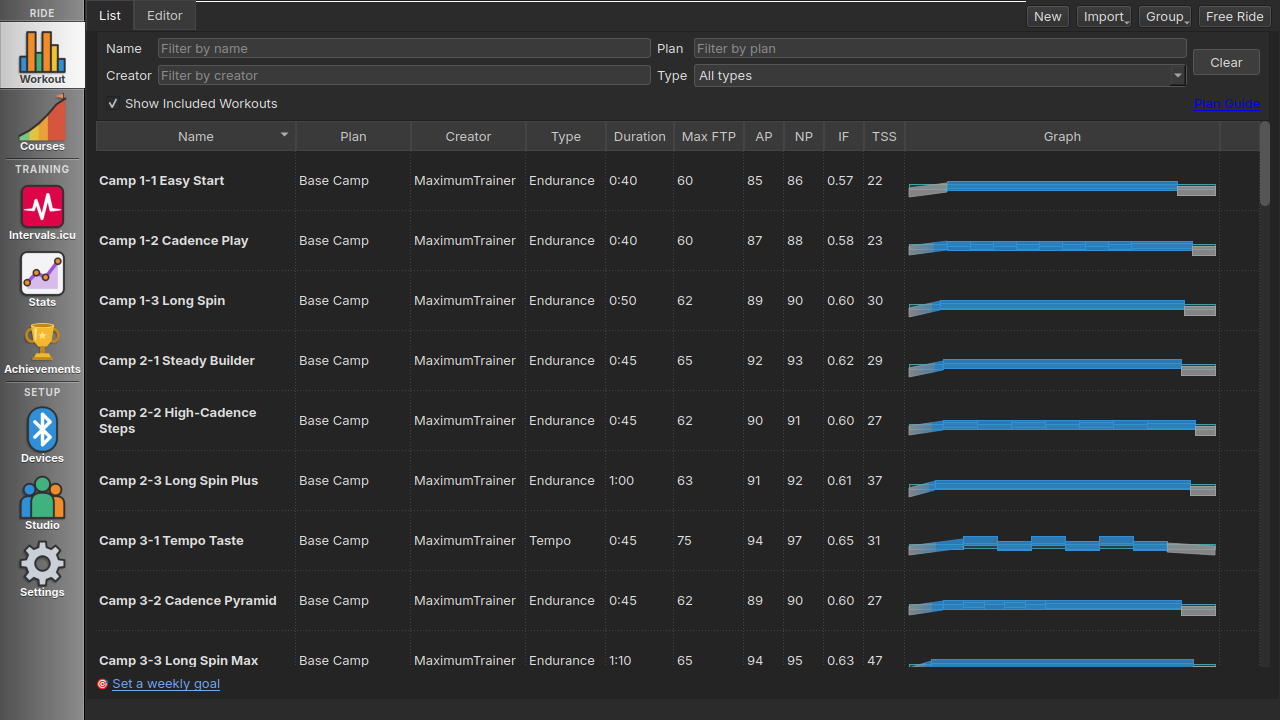
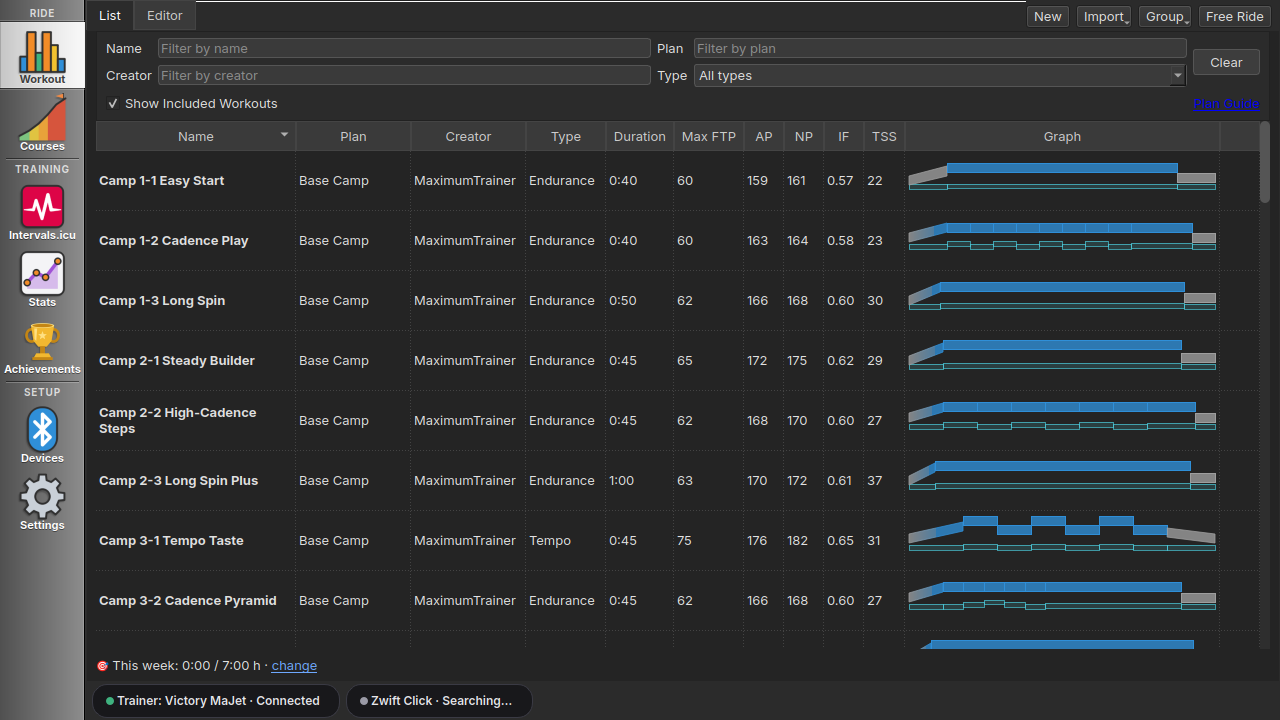
docs: refresh screenshots and docs for the current app
- Screenshots regenerated: no Studio tab in the sidebar, the Devices page
  with the 2nd power meter row, and the device bar at the bottom of the
  main window.
- Screenshot mode shows the device bar with the saved sensors (connected)
  and Zwift Click (searching), without touching Bluetooth.
- User Guide: the 2nd power meter is the orange line in the power card (no
  longer a top-bar readout).
- Landing page: Dual Recording feature card. README: the simulator also
  sends a 2nd power meter.

diff --git a/docs/user-guide.html b/docs/user-guide.html
@@ -600,8 +600,8 @@
           <li>For a smart trainer, tick <strong>Control trainer resistance (ERG / FTMS)</strong> in the Smart Trainer section to enable automatic ERG resistance.</li>
           <li>Optional: pair a <strong>2nd power meter</strong> to dual record. Each ride then also saves a second
               <code>.fit</code> file with that meter's power, named after it, in <code>History/Dual recording</code>
-              (only the main file is uploaded and counted in your stats). During the ride its power shows in the top bar,
-              with the difference to the main power in brackets.</li>
+              (only the main file is uploaded and counted in your stats). During the ride it is the orange line in the
+              power card, named with its reading and the gap to the main power (+3 W = 3 W higher).</li>
         </ol>
         <p>
           Saved sensors connect <strong>when the app starts</strong> and stay connected between

diff --git a/docs/index.html b/docs/index.html
@@ -138,6 +138,15 @@
              during the workout and recorded to the <strong>.FIT</strong> activity file.</p>
         </div>
 
+        <!-- Dual power recording -->
+        <div class="feature-card">
+          <div class="feature-icon">⚖</div>
+          <h3>Dual Recording</h3>
+          <p>Pair a <strong>second power meter</strong> and ride with both: it draws as an orange line next to
+             your trainer's power, and the ride is saved to a second <code>.fit</code> file named after it,
+             to compare the two.</p>
+        </div>
+
         <!-- Moxy / SpO₂ -->
         <div class="feature-card">
           <div class="feature-icon"><img src="assets/images/fa-heart.png" alt="" class="feature-img" /></div>

diff --git a/src/ui/mainwindow_harness.cpp b/src/ui/mainwindow_harness.cpp
@@ -26,6 +26,11 @@
 #include <QLabel>
 
 #include "util.h"
+#include "bottombar.h"
+#include "sensorstatusstrip.h"
+#ifndef GC_WASM_BUILD
+#include "sensor_connector.h"
+#endif
 #include "infowidget.h"
 #ifndef GC_WASM_BUILD
 #include "device_session.h"
@@ -302,6 +307,21 @@ void MainWindow::startScreenshotMode(const QString &outputDir)
     QDir().mkpath(outputDir);
     m_ssOutputDir = outputDir;
     m_ssStep      = 0;
+
+    // The device bar as a rider sees it, without touching Bluetooth.
+    auto *demoBar = new SensorStatusStrip(this);
+    demoBar->setAutoHide(false);
+    demoBar->layout()->setContentsMargins(4, 2, 4, 2);
+#ifndef GC_WASM_BUILD
+    // The saved sensors, as on the Devices page, shown connected.
+    for (const SensorConnector::Slot &slot : SensorConnector::slotsFor(BtleSensorStore::loadAll(), account->rowing_mode)) {
+        demoBar->addSensor(int(slot.role), BtleSensorStore::roleDisplayName(slot.role), slot.saved.name);
+        demoBar->setState(int(slot.role), SensorStatusStrip::State::Connected);
+    }
+#endif
+    if (account->use_zwift_click)
+        demoBar->addSensor(1000, tr("Zwift Click"));   // shown searching, as before it wakes
+    ui->widget_bottomMenu->setStatusWidget(demoBar);
 
     // Force offline so WorkoutDialog skips the online session check.
     // There is no server to reach in screenshot/CI mode, and the blocking

diff --git a/README.md b/README.md
@@ -58,7 +58,7 @@ Prefer to compile it yourself? See [Building](#building) below.
 For everything about **using** the app — pairing sensors, finding / importing / creating workouts, ERG vs Slope, the workout player (video · web), group workouts, activity uploads, and troubleshooting — see the **[User Guide](https://maximumtrainer.github.io/MaximumTrainer_Redux/user-guide.html)**.
 
 > **No hardware?** Turn on **Devices → Simulated Sensors**: the simulator emits realistic drifting
-> power / HR / cadence / speed and responds to ERG commands, so you can exercise the full workout flow — handy for
+> power / HR / cadence / speed (plus a 2nd power meter for dual recording) and responds to ERG commands, so you can exercise the full workout flow — handy for
 > development and CI — without any Bluetooth devices.
 
 ## Screenshots
